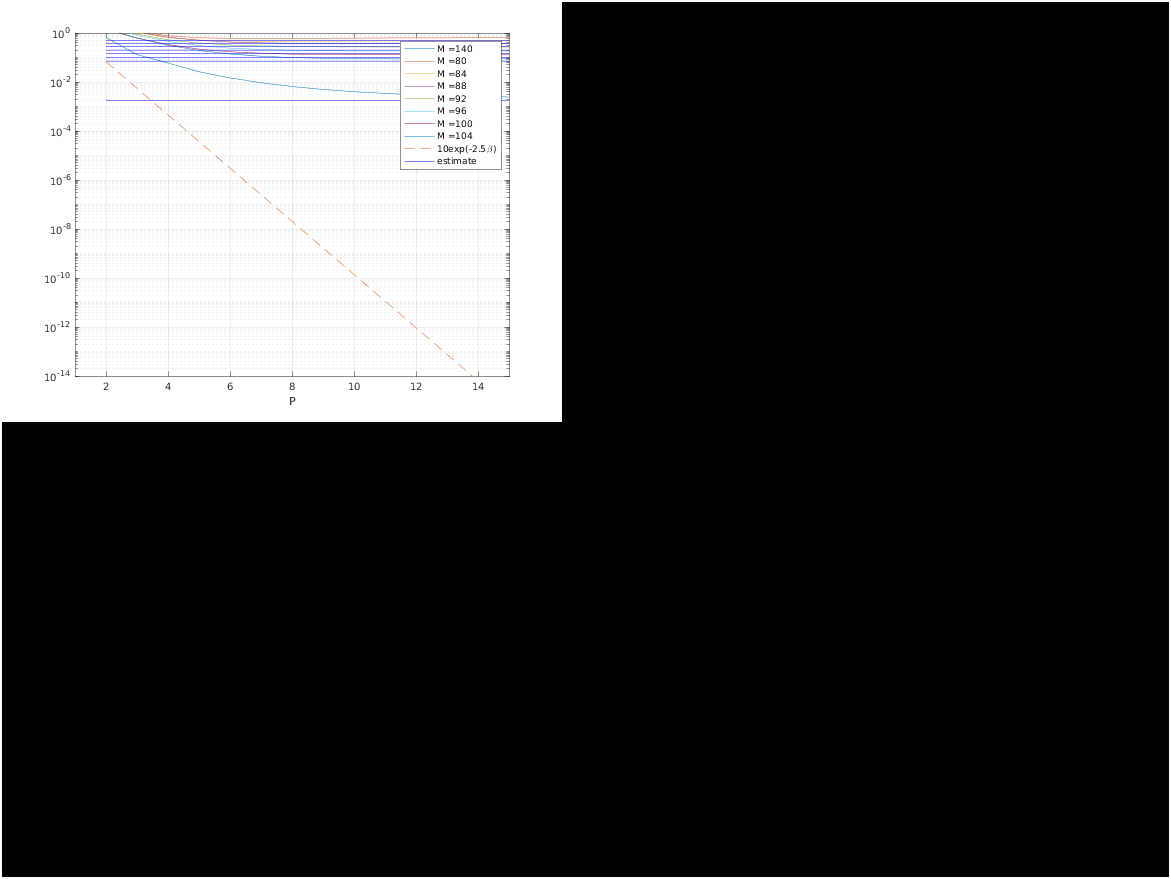
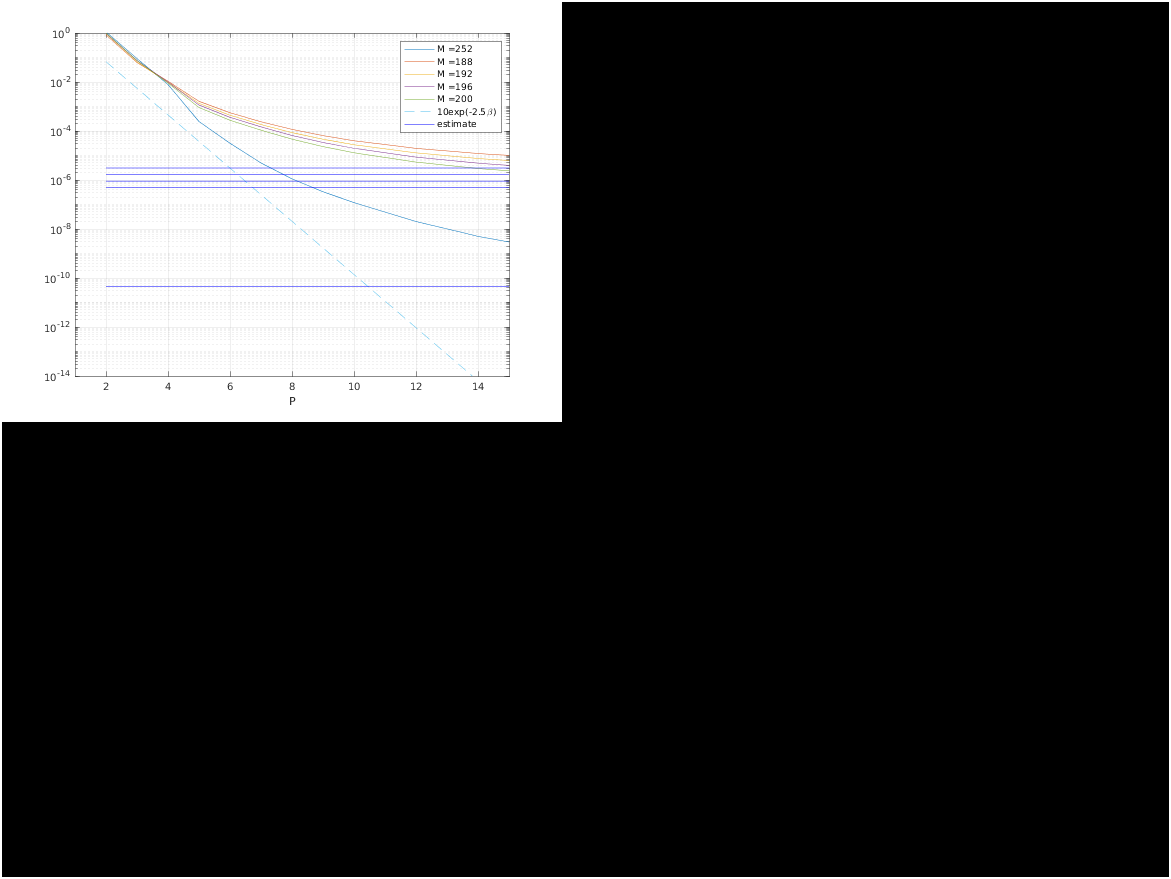
imgs

Changed region(s): [[0.0922, 0.0307, 0.4304, 0.215]]

diff --git a/SE_Stokes_run/SE3P_Stokes/P_error.m b/SE_Stokes_run/SE3P_Stokes/P_error.m
@@ -36,8 +36,8 @@ if(exist('refval.mat'))
 	refval = load('refval.mat');
 	ref = refval.refv(:,1:3);
 else
-	opt.P = 25;
-	opt.M = 196*[1,1,1];
+	opt.P = 32;
+	opt.M = 300*[1,1,1];
 	ref = SE3P_Stokes(1:N,x,f,opt);
 %	ref = SE3P_Stokes_direct_fd_mex(1:N,x,f,ED_opt);
 end
@@ -45,7 +45,7 @@ end
 %ref = SE3P_Stokes(1:N,x,f,opt);
 rms_ref = rmse(ref);
 %% Compare solutions with changing P
-MM = 80:4:104;
+MM = 188:4:200;
 str = {};
 %est = @(M,xi,L,f) sqrt(f)*(xi^3*L^2/(pi^4*(M/2)^(3/2)))*exp(-(pi*(M/2)/(xi*L))^2);
 %est = @(M,xi,L,f) sqrt(f)*(4/(3^(1/4)*L*pi))*exp(-(pi*M/(xi*L*2))^2);
@@ -54,7 +54,7 @@ e_vec = [];
 F = sum(norm(f.^2));
 A = @(a,b,c) sqrt(a)*b*(b*c)^0;
 disp(num2str(A(F,opt.xi,opt.box(1))/rms_ref))
-for M = [140 MM]
+for M = [252 MM]
 	
 	opt.M = M*[1,1,1];
 	PP = [2:1:10,10:2:32];
